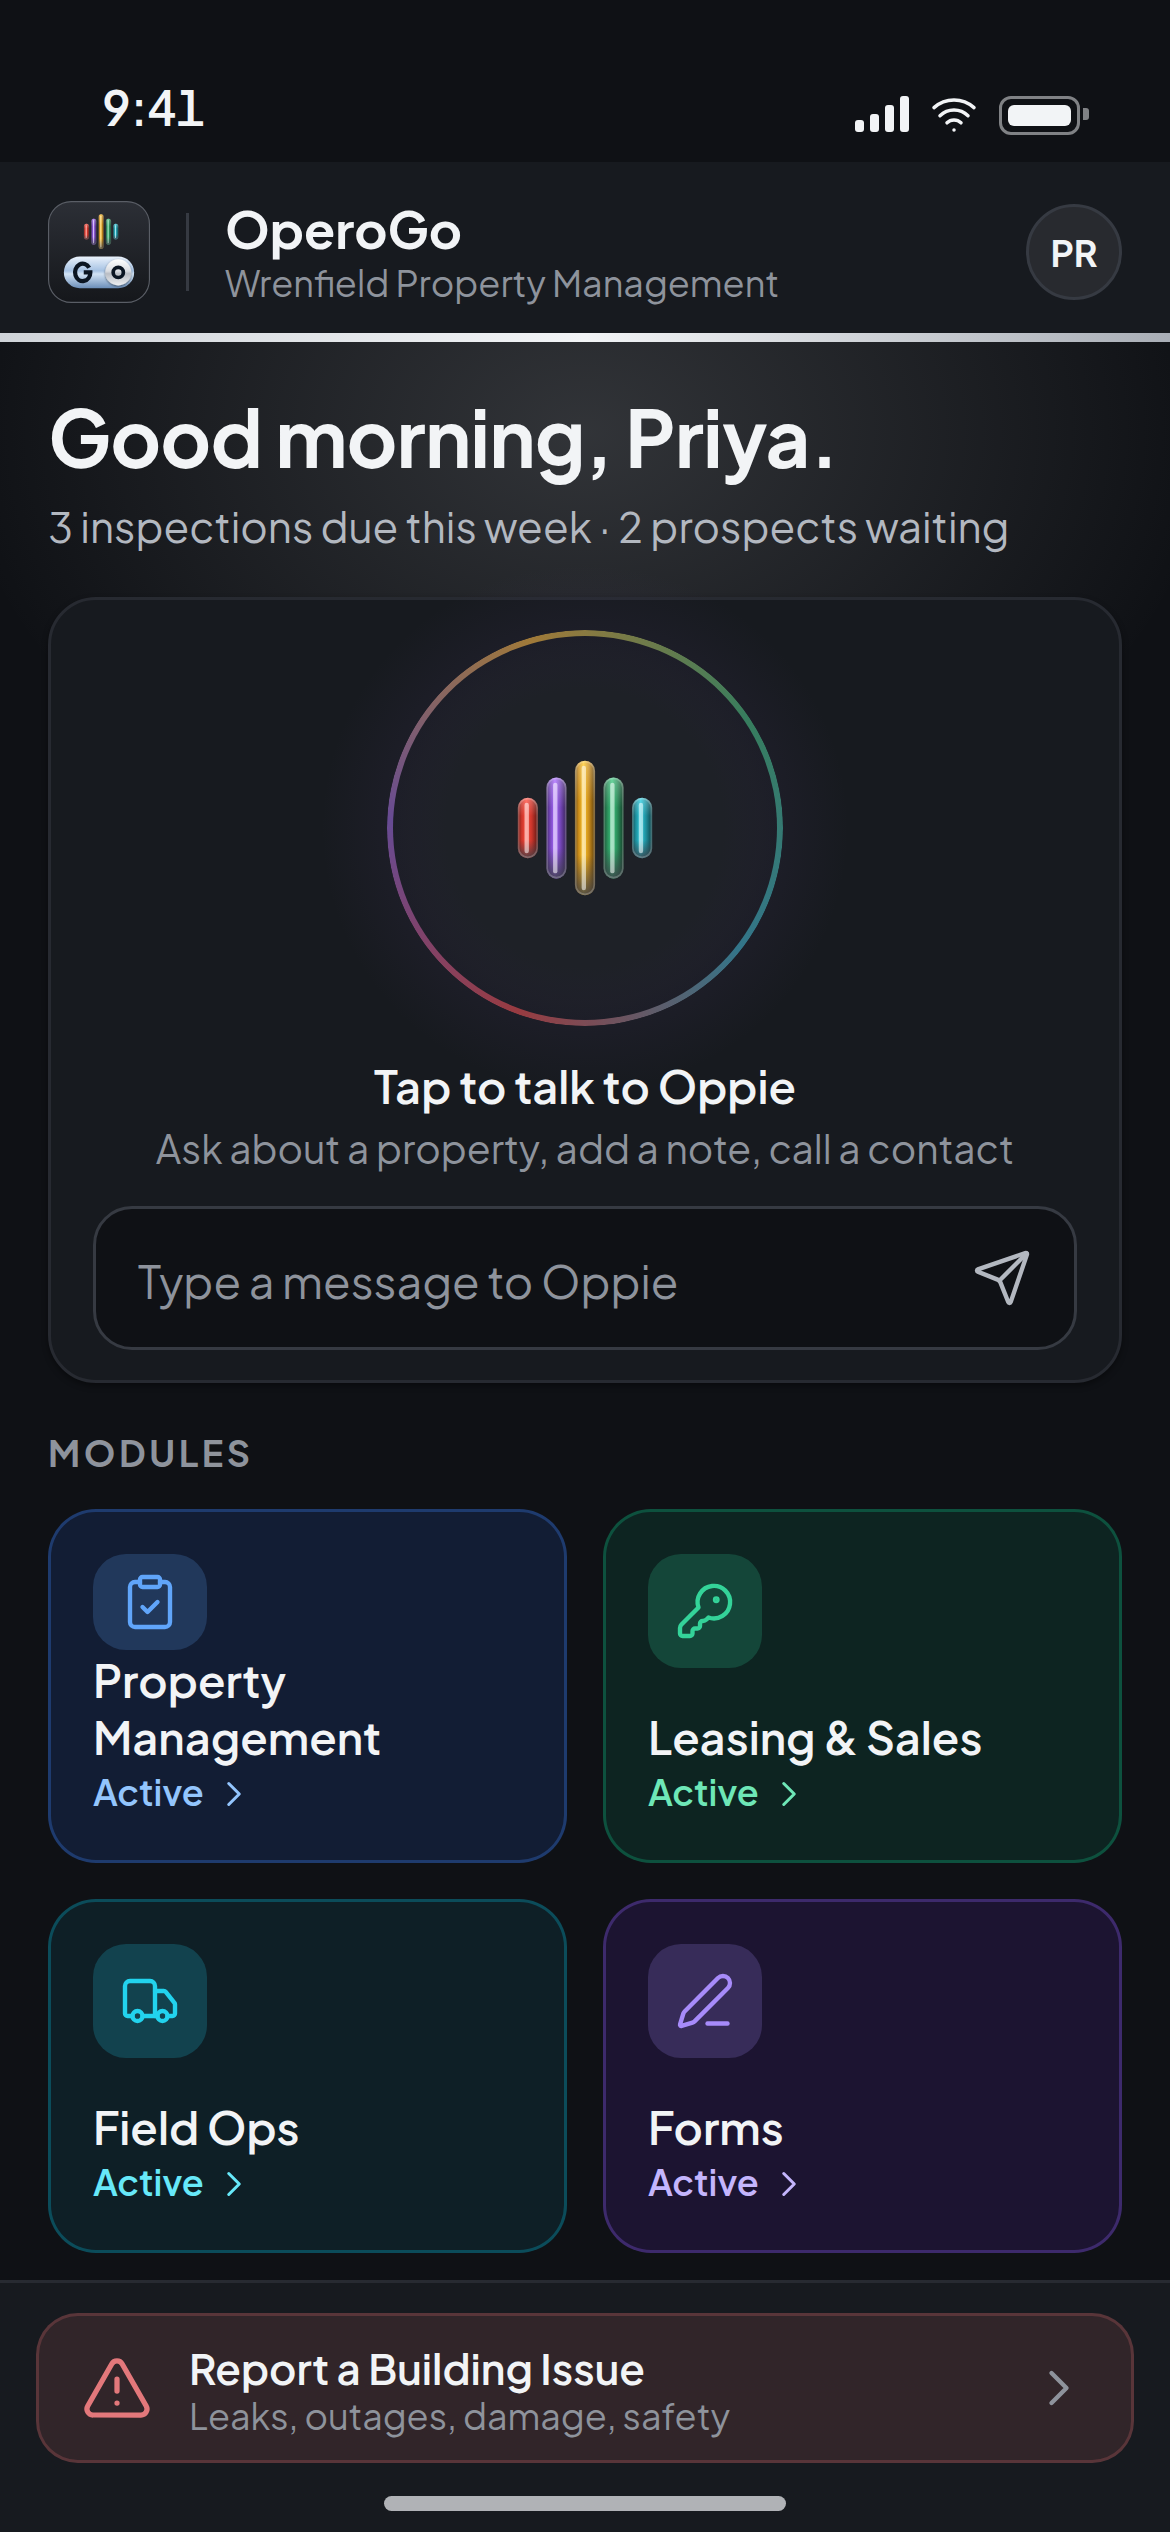
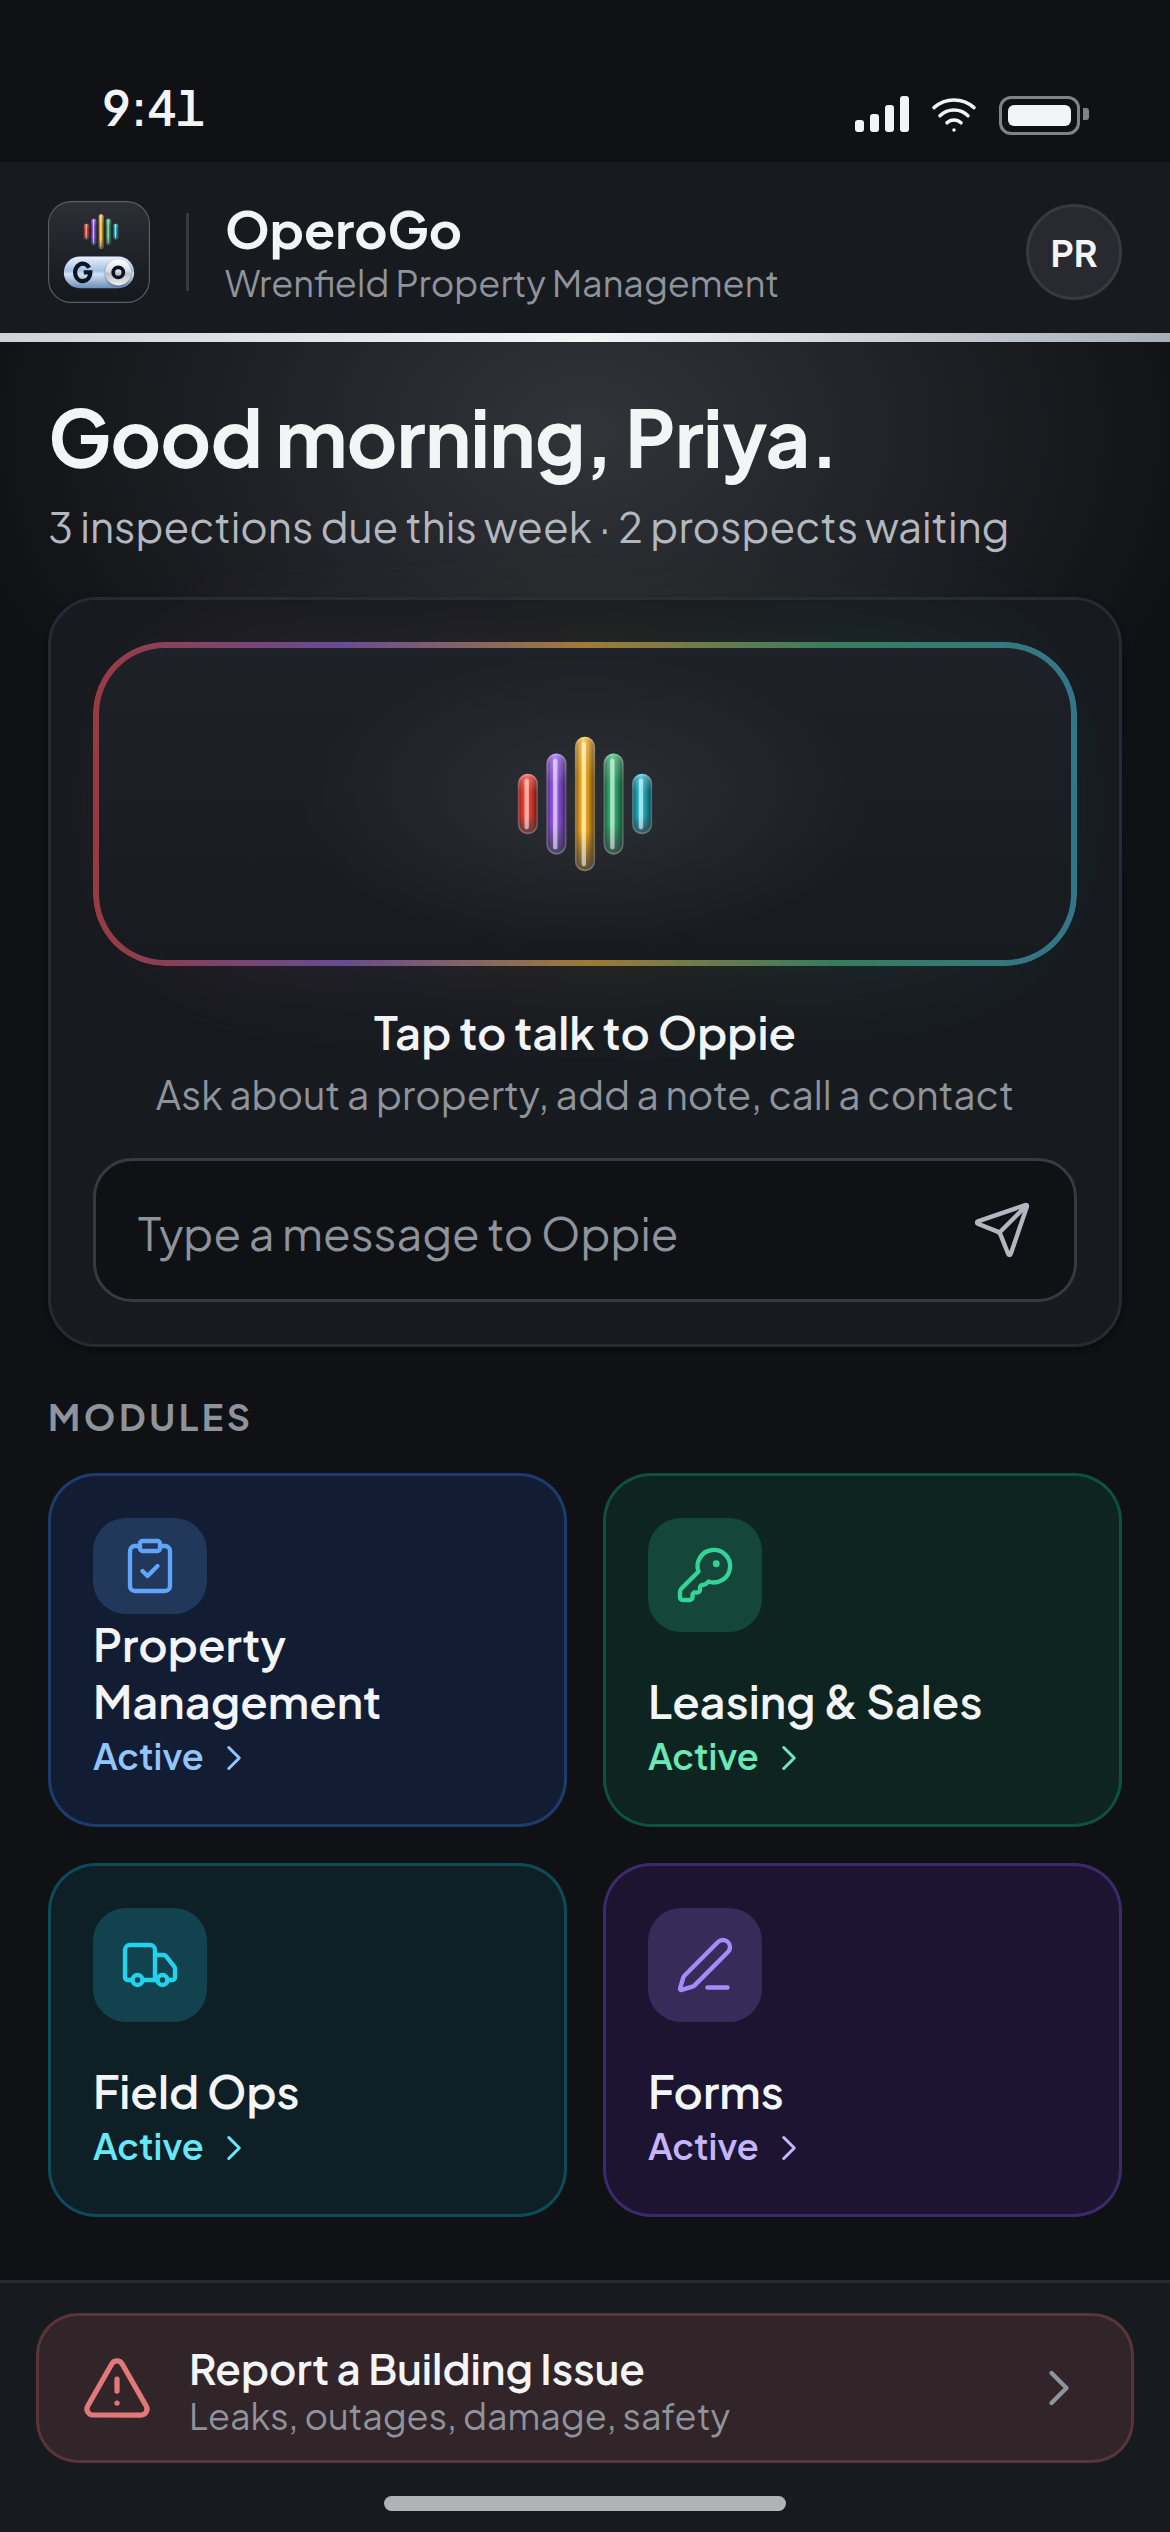
OperoGo screens: the Oppie button is a rectangle with soft corners
At the owner's request, the round listening ring on the Home and Oppie
phone screens becomes a wide button with soft corners: the Oppie mark
in the middle, edged in the five jewel tones in brand order from left
to right (the way the pills stand in the mark), over a soft halo in
the same tones. On Home it lines up with the message field below it;
on the Oppie screen it spans the bottom above the waveform. The kit's
part is renamed oppie-button and both pictures are re-rendered, so
their addresses change and no cache keeps the round one.

Claude-Session: https://claude.ai/code/session_01KhePUvyDoGx9BAF1YUfzN2

diff --git a/scripts/go-shots/oppie.html b/scripts/go-shots/oppie.html
@@ -3,8 +3,8 @@
 <head><meta charset="utf-8"><title>Oppie</title>
 <link rel="stylesheet" href="/scripts/go-shots/shell.css">
 <style>
-/* Oppie by voice: a short conversation, then the listening ring pinned to the bottom. Page rules only; the frame and the
-   parts (card, row, chip, oppie-ring) come from shell.css. */
+/* Oppie by voice: a short conversation, then the Oppie button pinned to the bottom. Page rules only; the frame and the
+   parts (card, row, chip, oppie-button) come from shell.css. */
 .screen { height: 100%; display: flex; flex-direction: column; }
 .turn + .turn { margin-top: 8px; }
 /* What the user said: a bubble on the right, the tail corner at the bottom right. */
@@ -16,14 +16,14 @@
 .leases { margin-top: 8px; padding-top: 2px; padding-bottom: 2px; }
 .leases .row { min-height: 0; padding: 8px 0; }
 .actions { display: flex; gap: 8px; margin-top: 8px; }
-/* Listening: the ring, a still waveform in the five jewel tones, and the hint. */
+/* Listening: the Oppie button, a still waveform in the five jewel tones, and the hint. */
 .listen { margin-top: auto; padding-bottom: 10px; display: flex; flex-direction: column; align-items: center; isolation: isolate; }
-.wave { display: flex; align-items: center; gap: 5px; height: 22px; margin-top: 8px; }
+.wave { display: flex; align-items: center; gap: 5px; height: 22px; margin-top: 12px; }
 .wave i { display: block; width: 5px; border-radius: 2.5px; background: linear-gradient(to bottom, var(--j-hi), var(--j-base)); }
 .wave i:nth-child(1) { height: 8px; }  .wave i:nth-child(2) { height: 14px; } .wave i:nth-child(3) { height: 20px; }
 .wave i:nth-child(4) { height: 12px; } .wave i:nth-child(5) { height: 22px; } .wave i:nth-child(6) { height: 18px; }
 .wave i:nth-child(7) { height: 20px; } .wave i:nth-child(8) { height: 10px; } .wave i:nth-child(9) { height: 6px; }
-.hint { margin-top: 6px; font-size: 13px; line-height: 18px; color: var(--text-subtle); }
+.hint { margin-top: 8px; font-size: 13px; line-height: 18px; color: var(--text-subtle); }
 </style></head>
 <body>
   <div class="status"><span>9:41</span><span class="glyphs"><span class="bars"><i></i><i></i><i></i><i></i></span><svg class="icon i16" viewBox="0 0 24 24"><path d="M12 20h.01"/><path d="M2 8.82a15 15 0 0 1 20 0"/><path d="M5 12.859a10 10 0 0 1 14 0"/><path d="M8.5 16.429a5 5 0 0 1 7 0"/></svg><span class="battery"></span></span></div>
@@ -49,7 +49,7 @@
       <div class="turn me"><p>Add a note to Aldergrove: renewal call this week.</p></div>
       <div class="turn said"><img class="oppie" src="/public/brand/oppie/oppie-rest-dark.svg" width="22" height="22" alt=""><p>Noted on Aldergrove Dental. Anything else?</p></div>
       <div class="listen">
-        <div class="oppie-ring"><img class="oppie" src="/public/brand/oppie/oppie-rest-dark.svg" width="56" height="56" alt=""></div>
+        <div class="oppie-button"><img class="oppie" src="/public/brand/oppie/oppie-rest-dark.svg" width="56" height="56" alt=""></div>
         <div class="wave"><i class="j-crimson"></i><i class="j-crimson"></i><i class="j-violet"></i><i class="j-violet"></i><i class="j-gold"></i><i class="j-green"></i><i class="j-green"></i><i class="j-teal"></i><i class="j-teal"></i></div>
         <div class="hint">Listening. Tap to stop.</div>
       </div>

diff --git a/scripts/go-shots/shell.css b/scripts/go-shots/shell.css
@@ -141,7 +141,9 @@ svg.icon.i28 { width: 28px; height: 28px; }
 .mc-forms    { --mc-bg: #6D28D926; --mc-border: #8B5CF64D; --mc-icon: #A78BFA; --mc-label: #C4B5FD; --mc-wash: #A78BFA33; }
 /* Oppie: always the supplied file (<img src="/public/brand/oppie/oppie-rest-dark.svg">), never drawn, never an orb of its own. */
 img.oppie { display: inline-block; flex: none; }
-/* The listening ring around Oppie: a soft halo in the five jewel tones. */
-.oppie-ring { position: relative; width: 132px; height: 132px; border-radius: 50%; display: flex; align-items: center; justify-content: center; background: radial-gradient(closest-side, #1E2127 70%, transparent 100%); }
-.oppie-ring::before { content: ''; position: absolute; inset: 0; border-radius: 50%; padding: 2px; background: conic-gradient(from 200deg, var(--jewel-crimson-base), var(--jewel-violet-base), var(--jewel-gold-base), var(--jewel-green-base), var(--jewel-teal-base), var(--jewel-crimson-base)); -webkit-mask: linear-gradient(#000 0 0) content-box, linear-gradient(#000 0 0); -webkit-mask-composite: xor; mask-composite: exclude; opacity: .9; }
-.oppie-ring::after { content: ''; position: absolute; inset: -22px; border-radius: 50%; background: radial-gradient(closest-side, #7050A040, transparent); z-index: -1; }
+/* The Oppie button: a wide rectangle with soft corners and the mark (56px) in the middle, edged in the five jewel tones in
+   brand order from left to right, the way the pills stand in the mark, over a soft halo in the same tones. It fills its
+   column; its parent isolates (isolation: isolate), so the halo paints behind the button and above the card it sits on. */
+.oppie-button { position: relative; width: 100%; height: 108px; border-radius: 24px; display: flex; align-items: center; justify-content: center; background: radial-gradient(96px 50px at 50% 50%, var(--accent-soft), transparent), linear-gradient(to bottom, var(--surface-2), var(--surface)); box-shadow: inset 0 1px 0 #FFFFFF0A; }
+.oppie-button::before { content: ''; position: absolute; inset: 0; border-radius: inherit; padding: 2px; background: linear-gradient(to right, var(--jewel-crimson-base), var(--jewel-violet-base), var(--jewel-gold-base), var(--jewel-green-base), var(--jewel-teal-base)); -webkit-mask: linear-gradient(#000 0 0) content-box, linear-gradient(#000 0 0); -webkit-mask-composite: xor; mask-composite: exclude; opacity: .9; }
+.oppie-button::after { content: ''; position: absolute; inset: 10px 24px; border-radius: inherit; background: linear-gradient(to right, var(--jewel-crimson-base), var(--jewel-violet-base), var(--jewel-gold-base), var(--jewel-green-base), var(--jewel-teal-base)); filter: blur(24px); opacity: .28; z-index: -1; }

diff --git a/scripts/go-shots/home.html b/scripts/go-shots/home.html
@@ -4,16 +4,16 @@
 <link rel="stylesheet" href="/scripts/go-shots/shell.css">
 <style>
 /* Home: the greeting, the Oppie card and the module grid, in the silver Home accent. Page rules only; the frame and the
-   parts (card, input, modules, oppie-ring) come from shell.css. */
+   parts (card, input, modules, oppie-button) come from shell.css. */
 .screen { height: 100%; display: flex; flex-direction: column; }
 .greeting h1 { font-size: 26px; line-height: 32px; font-weight: 700; letter-spacing: -0.01em; }
 .greeting p { margin-top: 3px; font-size: 14px; line-height: 20px; color: var(--text-muted); }
-/* The Oppie card: the listening ring, the invitation, then the message field. isolate keeps the ring's halo inside the card. */
-.oppie-card { margin-top: 14px; padding: 10px 14px; }
+/* The Oppie card: the Oppie button, the invitation, then the message field. isolate keeps the button's halo inside the card. */
+.oppie-card { margin-top: 14px; padding: 14px; }
 .talk { display: flex; flex-direction: column; align-items: center; text-align: center; isolation: isolate; }
-.talk .ask { margin-top: 10px; font-size: 15px; line-height: 20px; font-weight: 600; }
+.talk .ask { margin-top: 12px; font-size: 15px; line-height: 20px; font-weight: 600; }
 .talk .about { margin-top: 2px; font-size: 13px; line-height: 18px; color: var(--text-subtle); }
-.oppie-card .input { margin-top: 10px; }
+.oppie-card .input { margin-top: 12px; }
 .oppie-card .input span { flex: 1; min-width: 0; }
 .oppie-card .input .icon { color: var(--text-muted); }
 /* The module grid fills what is left and ends just above the banner. */
@@ -37,7 +37,7 @@
       </div>
       <div class="card oppie-card">
         <div class="talk">
-          <div class="oppie-ring"><img class="oppie" src="/public/brand/oppie/oppie-rest-dark.svg" width="56" height="56" alt=""></div>
+          <div class="oppie-button"><img class="oppie" src="/public/brand/oppie/oppie-rest-dark.svg" width="56" height="56" alt=""></div>
           <div class="ask">Tap to talk to Oppie</div>
           <div class="about">Ask about a property, add a note, call a contact</div>
         </div>

diff --git a/scripts/go-shots/README.md b/scripts/go-shots/README.md
@@ -6,7 +6,7 @@ creative license, not captures: each `<screen>.html` is a screen, `shell.css` is
 
 - `shell.css`: the phone frame (status bar, app bar with the OperoGo icon and the module accent, the content area, the
   Report a Building Issue banner and the home indicator), the tokens, and the parts (cards, rows, chips, buttons, inputs,
-  module cards, the Oppie listening ring). Pages link it and keep only their own rules in their `<style>`.
+  module cards, the Oppie button). Pages link it and keep only their own rules in their `<style>`.
 - `render.mjs`: serves the repo root on a local port and screenshots each page at 390 x 844 CSS px, device scale 3, into
   `src/assets/go/<screen>.png` (1170 x 2532). Needs a Chromium (`CHROME_PATH` if none is installed for Playwright).
 - `src/assets/go/<screen>.png`: the rendered output, committed with the page that made it. The site imports these files
@@ -41,7 +41,7 @@ else is clipped. The `.glow` is the first child of `.content`.
 ## Marks
 
 - The OperoGo icon: `<img class="app-icon" src="/public/brand/operogo/operogo-icon-rounded.svg" alt="">` in the app bar, 34px. Elsewhere size it with a width and height; the file's own corners are rounded.
-- Oppie at rest: `<img class="oppie" src="/public/brand/oppie/oppie-rest-dark.svg" width="N" height="N" alt="">`, 56px inside the listening ring (`<div class="oppie-ring">`), 22px beside an answer, 16px in a chip. Never drawn by hand, never an orb of its own.
+- Oppie at rest: `<img class="oppie" src="/public/brand/oppie/oppie-rest-dark.svg" width="N" height="N" alt="">`, 56px inside the Oppie button (`<div class="oppie-button">`, a rectangle with soft corners), 22px beside an answer, 16px in a chip. Never drawn by hand, never an orb of its own.
 - Icons: inline SVG on a 24 viewBox, paths copied from `node_modules/lucide-react/dist/esm/icons/<name>.mjs`. No icon fonts.
 - Photos: none. A photo thumbnail is a drawn placeholder, a rounded rectangle with a soft gradient and a camera glyph.
 
